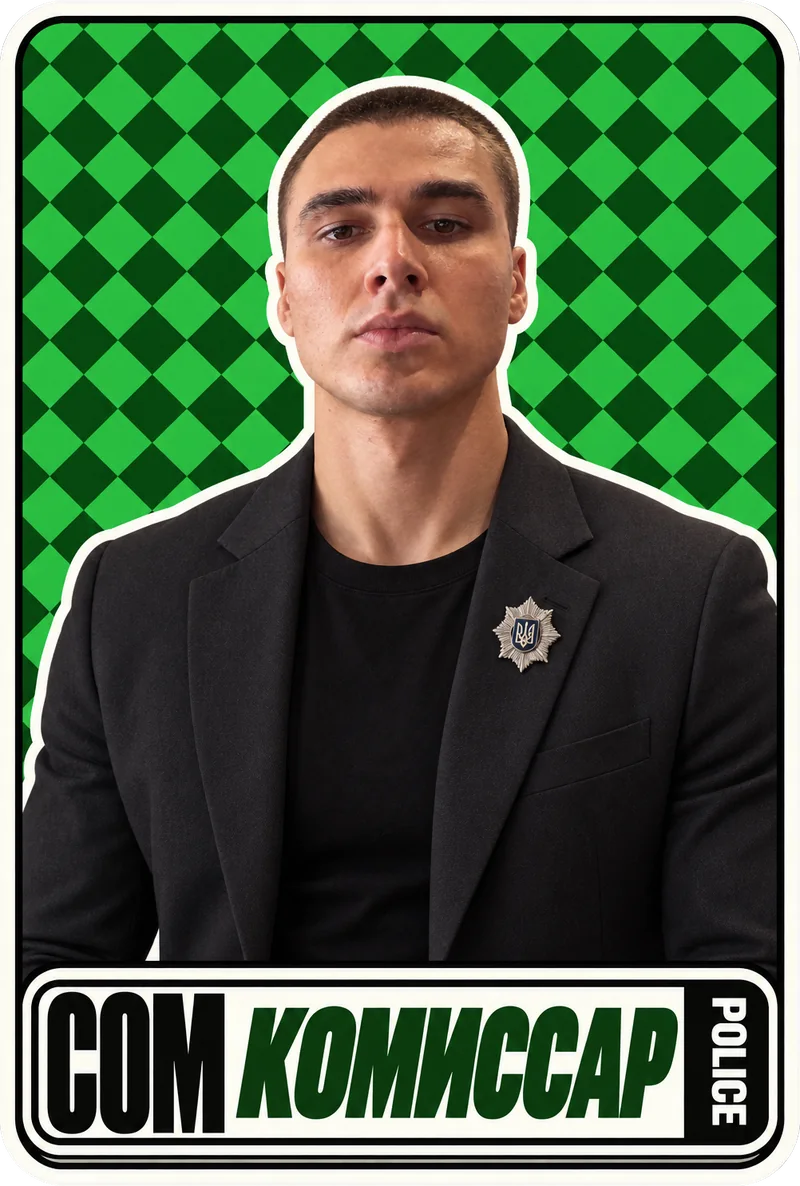
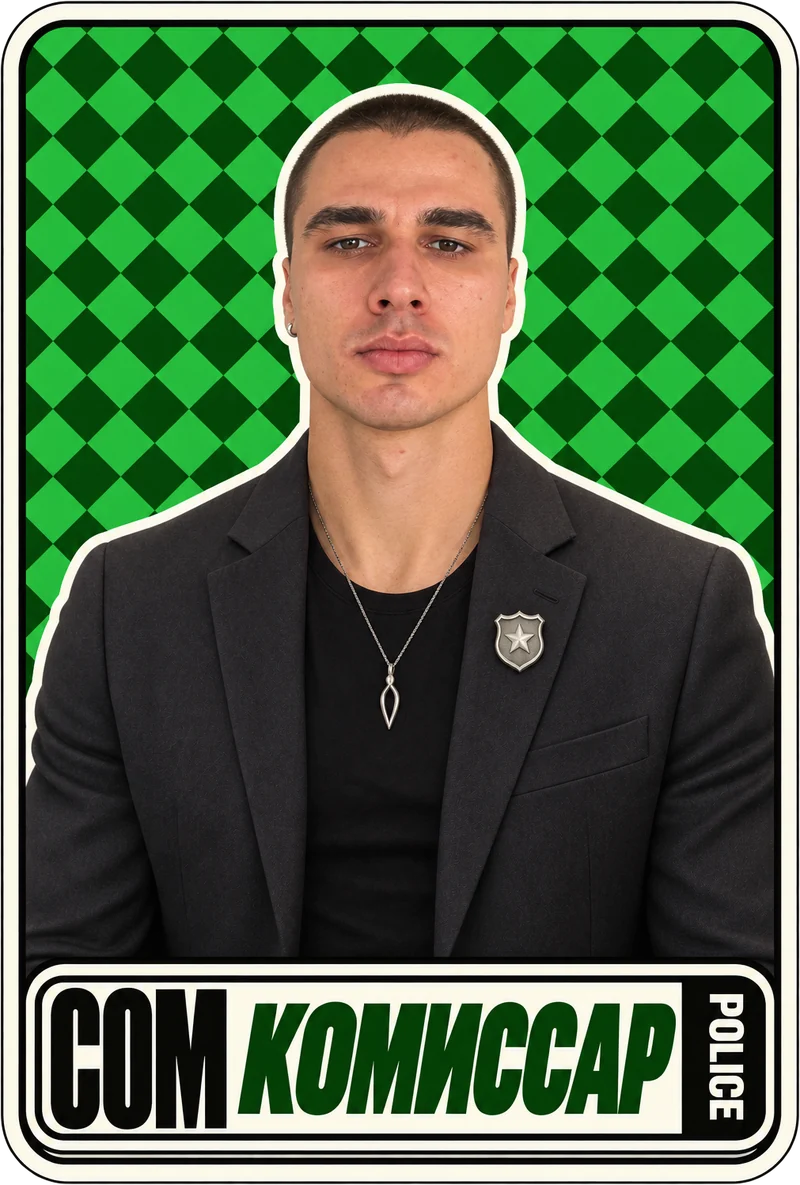
Новая карточка комиссара-парня (kom-3)

diff --git a/index.html b/index.html
@@ -1448,7 +1448,7 @@ html.hw {
 <script>
 (() => {
   const KEY = "dachaMafia.v1";
-  const BUILD = "20261103094445"; // set on every commit by .githooks/pre-commit
+  const BUILD = "20261103100955"; // set on every commit by .githooks/pre-commit
   const SB_URL = "https://uiaxlwlllrbulirhtdlo.supabase.co";
   const SB_KEY = "sb_publishable_5KvuUsrQBMTHYfwibw0Dxg_n645biRf";
   const sb = window.supabase ? window.supabase.createClient(SB_URL, SB_KEY, { auth: { persistSession: true, autoRefreshToken: true, storageKey: "dachaMafia.auth" } }) : null;
@@ -1505,7 +1505,7 @@ html.hw {
   const CARD_ART = {
     maf: ["cards/maf.webp", "cards/maf-2.webp", "cards/maf-4.webp"],
     don: ["cards/don-2.webp"],
-    kom: ["cards/kom.webp", "cards/kom-2.webp"],
+    kom: ["cards/kom.webp", "cards/kom-3.webp"],
     kur: ["cards/kur-2.webp"],
     man: ["cards/man.webp", "cards/man-2.webp"],
     pat: ["cards/pat.webp"],
